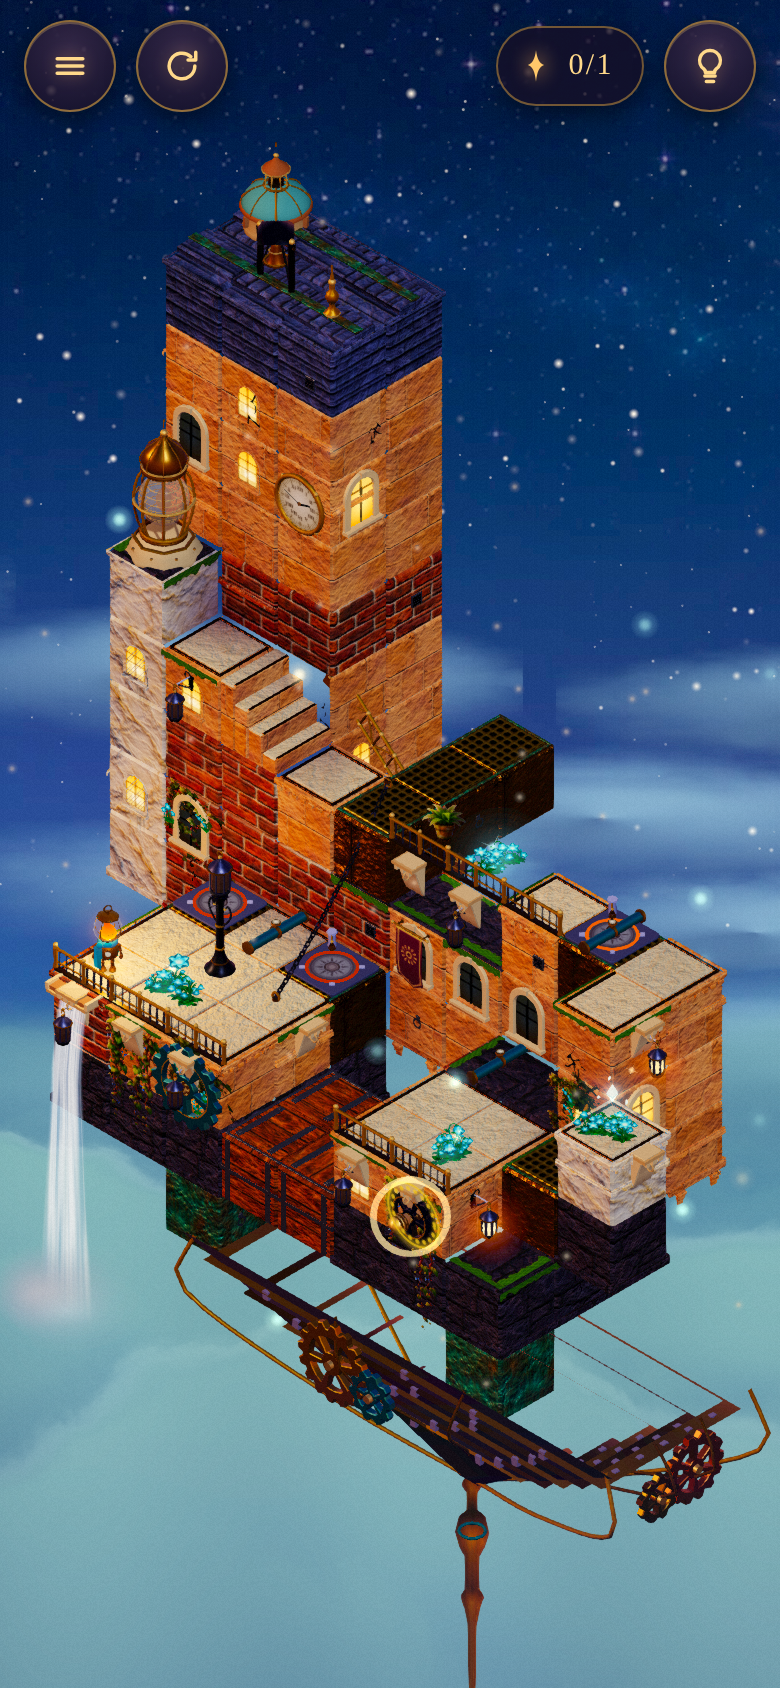
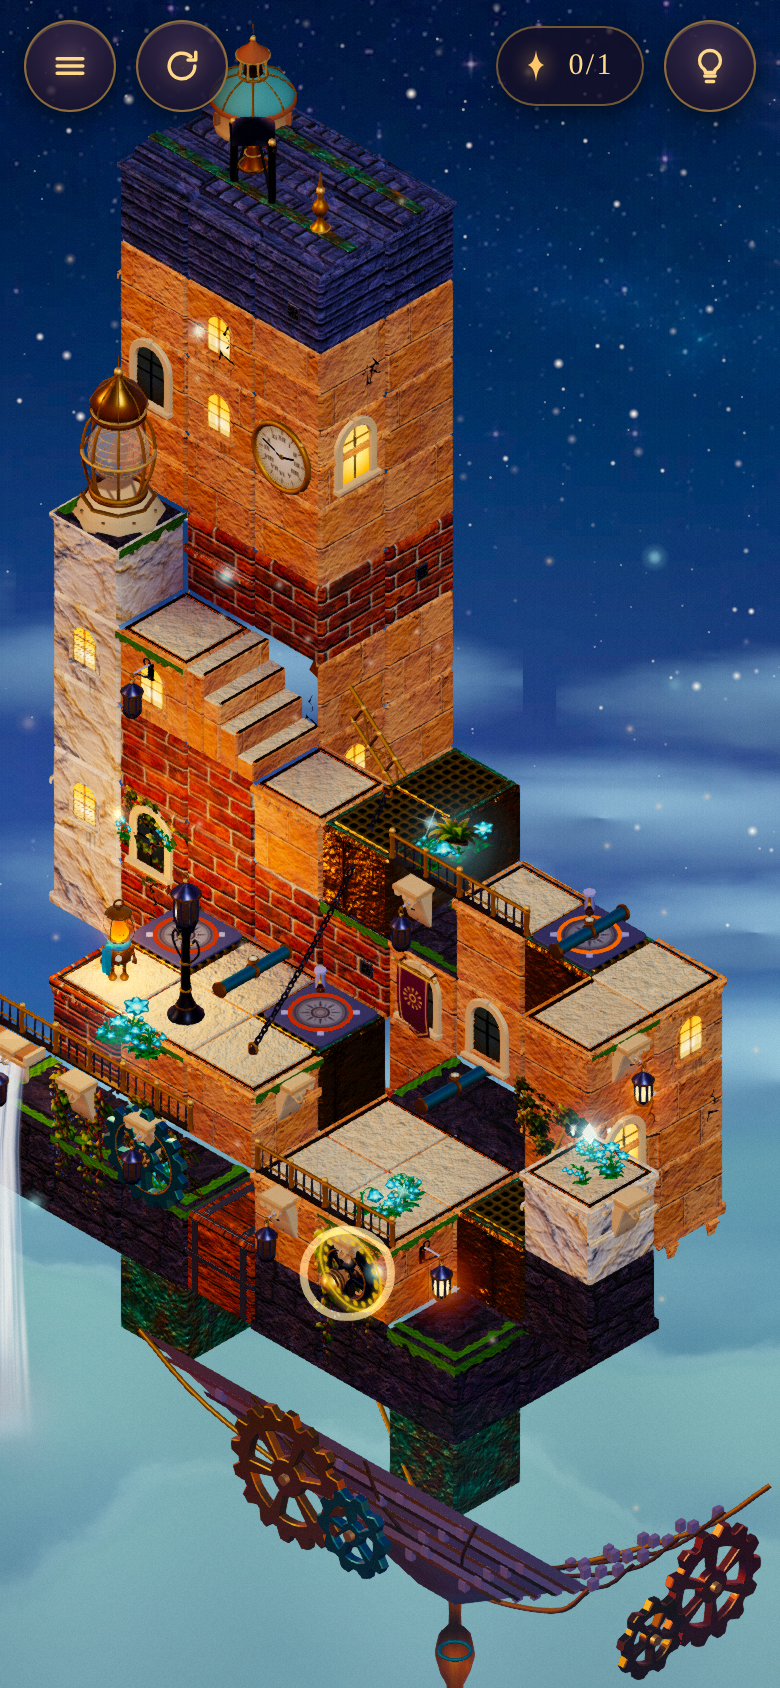
Spirelight: QA shots
Claude-Session: https://claude.ai/code/session_01KHq9E4PP77B82NWFRYgzJt

diff --git a/spirelight/js/decor.js b/spirelight/js/decor.js
@@ -1595,7 +1595,7 @@
     env.root.position.set(at[0] + w / 2, at[1], at[2] + dd / 2);
     const b = new Builder({ ao: 0.0 });
     const hx0 = Math.max(0.3, w / 2 - 0.15), hz0 = Math.max(0.3, dd / 2 - 0.15);       // inset: never wider than the footprint
-    const mn = Math.min(hx0, hz0), tipY = -Math.min(depth * 0.62, Math.max(1.0, mn * 1.7)), n = 5, rh = -tipY * 0.13, tip = Math.max(0.06, mn * 0.2);
+    const mn = Math.min(hx0, hz0), tipY = -Math.min(depth * 0.8, Math.max(1.0, mn * 1.7, Math.max(hx0, hz0) * 0.55)), n = 5, rh = -tipY * 0.13, tip = Math.max(0.06, mn * 0.2);
     const hxAt = (y) => lerp(hx0, tip, Math.min(1, y / tipY)), hzAt = (y) => lerp(hz0, tip, Math.min(1, y / tipY));
     // frustum with independent half-extents at the top and the bottom (open top: nothing horizontal shows from above)
     const frus = (key, ty, by, y0, c, grow) => {
